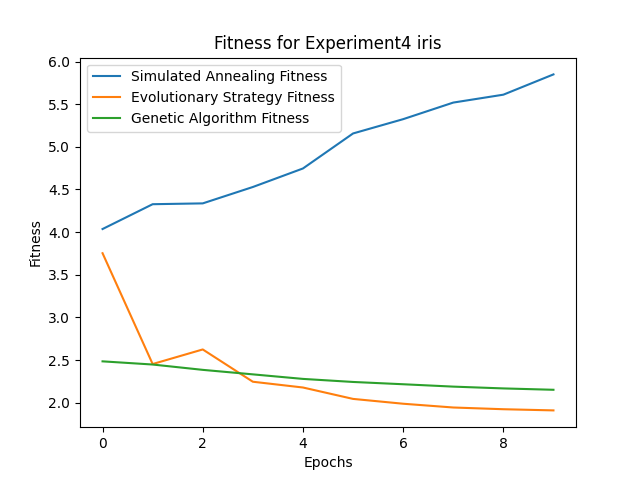
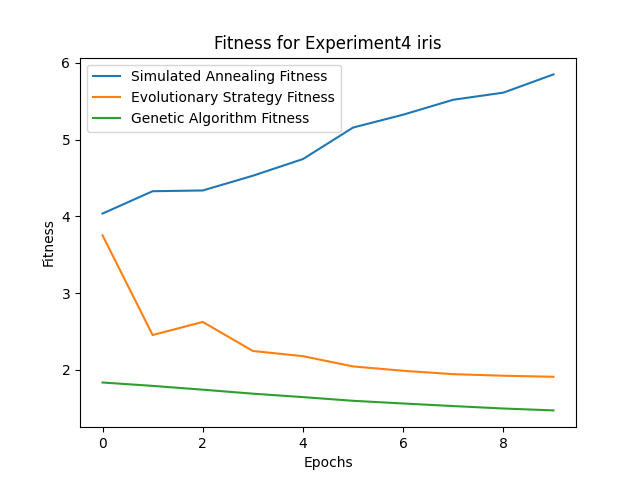
Updating the images

diff --git a/experiments/generate_graphics.py b/experiments/generate_graphics.py
@@ -55,22 +55,29 @@ if __name__ == "__main__":
     for selected_dataset in unique_datasets:
       is_sa_dataset = sa_df['dataset'] == selected_dataset
       is_es_dataset = es_df['dataset'] == selected_dataset
+      is_ga_dataset = ga_df['dataset'] == selected_dataset
       dataset_sa_df = sa_df[is_sa_dataset]
       dataset_es_df = es_df[is_es_dataset]
+      dataset_ga_df = ga_df[is_ga_dataset]
       sa_list = []
       es_list = []
+      ga_list = []
       for selected_epoch in unique_epochs:
         is_sa_epoch = dataset_sa_df['epoch'] == selected_epoch
         is_es_epoch = dataset_es_df['epoch'] == selected_epoch
+        is_ga_epoch = dataset_ga_df['epoch'] == selected_epoch
         epoch_sa_df = dataset_sa_df[is_sa_epoch]
         epoch_es_df = dataset_es_df[is_es_epoch]
+        epoch_ga_df = dataset_ga_df[is_ga_epoch]
         sa_fitness = epoch_sa_df['fitness'].to_list()
         es_fitness = epoch_es_df['fitness'].to_list()
+        ga_fitness = epoch_ga_df['min_fitness'].to_list()
         sa_list.append(statistics.mean(sa_fitness))
         es_list.append(statistics.mean(es_fitness))
+        ga_list.append(statistics.mean(ga_fitness))
       plt.plot(x,sa_list, label="Simulated Annealing Fitness")
       plt.plot(x,es_list, label="Evolutionary Strategy Fitness")
-      plt.plot(x,min_fitness_list, label="Genetic Algorithm Fitness")
+      plt.plot(x,ga_list, label="Genetic Algorithm Fitness")
       plt.xlabel('Epochs')
       plt.ylabel('Fitness')
       plt.title('Fitness for {} {}'.format(directory, selected_dataset))
